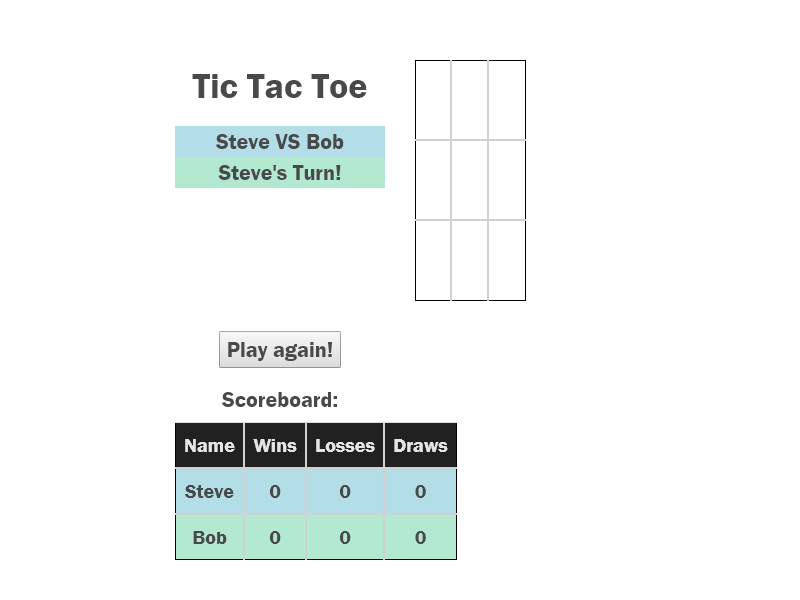
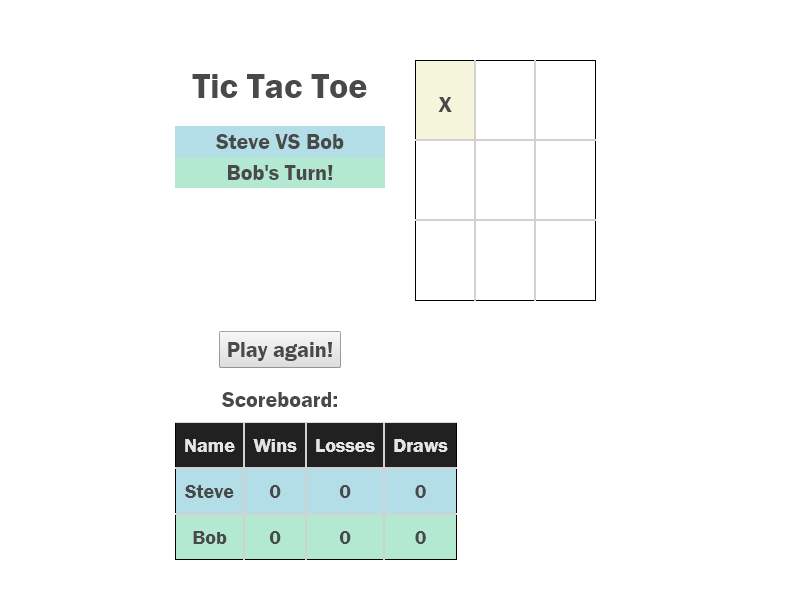
Added further tests checking turns and refined test code

Changed region(s): [[0.5, 0.09, 0.625, 0.48], [0.6562, 0.09, 0.75, 0.51], [0.25, 0.27, 0.4375, 0.3]]

diff --git a/src/website.test.js b/src/website.test.js
@@ -2,6 +2,8 @@ const puppeteer = require('puppeteer');
 
 var browser; 
 var page;
+var player1 = 'Steve';
+var player2 = 'Bob';
 it('should render without crashing', async () => { 
     browser = await puppeteer.launch(); 
     page = await browser.newPage();
@@ -12,13 +14,21 @@ it('should render without crashing', async () => {
 
 it('should start game with input names', async () => {
     await page.focus('body > div > div > div:nth-child(2) > input');
-    await page.keyboard.type("Steve");
+    await page.keyboard.type(player1);
     await page.focus('body > div > div > div:nth-child(3) > input');
-    await page.keyboard.type("Bob");
+    await page.keyboard.type(player2);
     await page.click('body > div > div > div:nth-child(4) > input');
-    //await page.screenshot({ path: 'Testing.png' });
     const text = await page.evaluate(() => document.querySelector('.player.blue').textContent);
+    expect(text).toContain(player1, player2);
+});
+it('should know which players turn it is', async () => {
+    const text = await page.evaluate(() => document.querySelector('.turn.green').textContent);
+    expect(text).toContain(player1);
+});
+it('should know which players turn it is after the first player finishes their turn', async () => {
+    await page.click('#root > div > div:nth-child(2) > div > table > tbody > tr:nth-child(1) > td:nth-child(1)');
+    const text = await page.evaluate(() => document.querySelector('.turn.green').textContent);
     await page.close();
     await browser.close();
-    expect(text).toContain('Steve', 'Bob');
+    expect(text).toContain(player2);
 });
